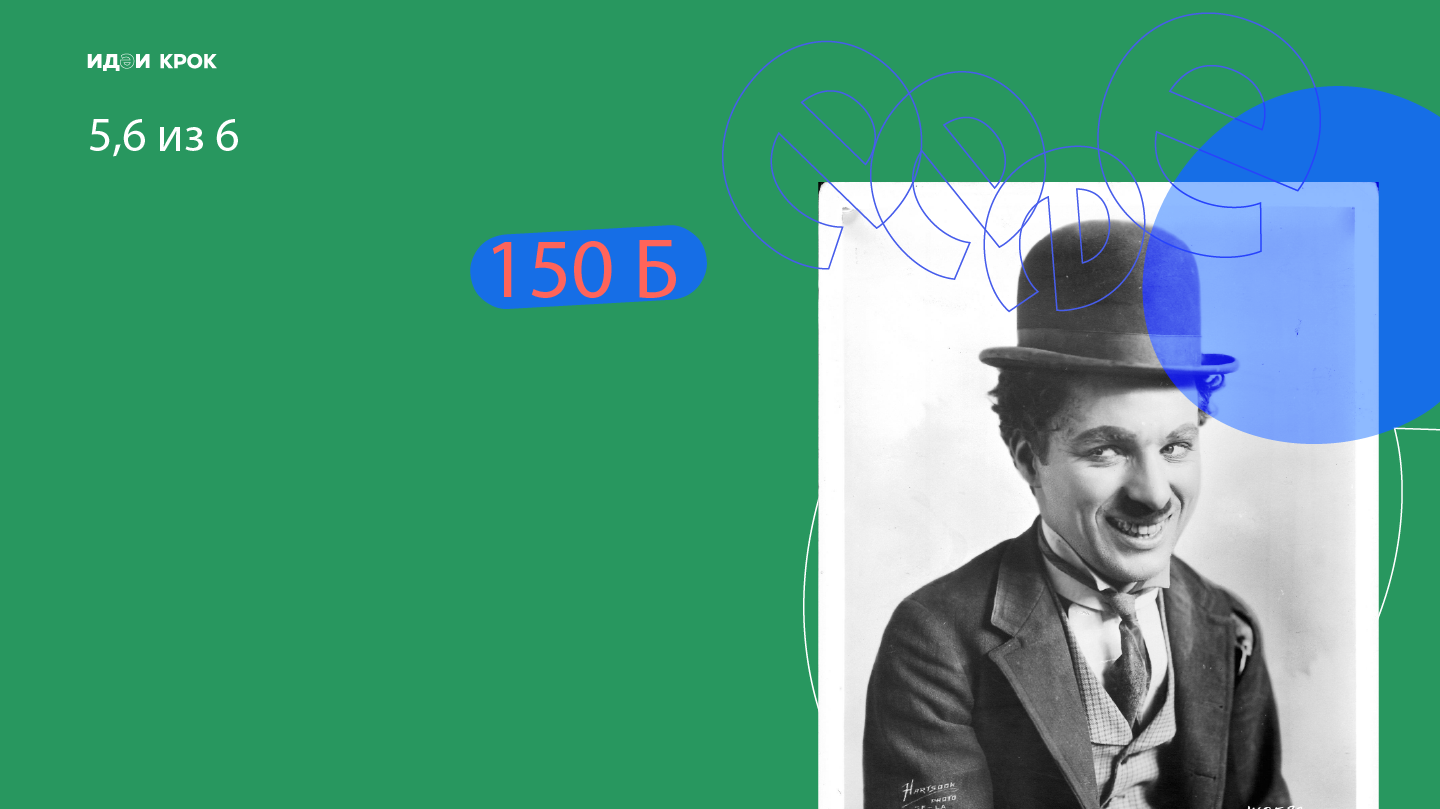
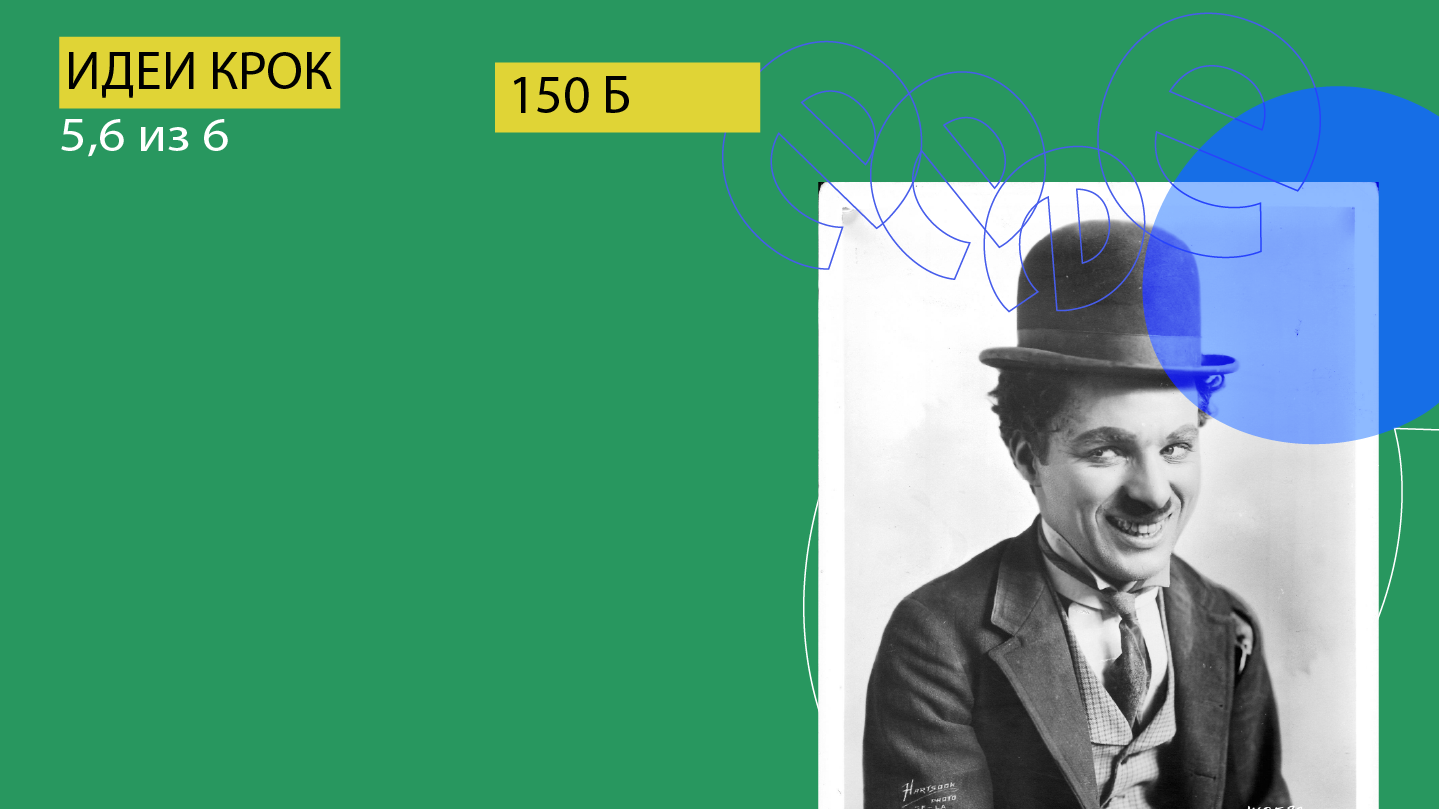
commit

diff --git a/html/index.html b/html/index.html
@@ -32,40 +32,40 @@
         <img class="V" src="../img/first-page/Image_008.png" alt="">
         <img class='fish' src="../img/first-page/Image_009.png" alt=""> -->
 
-      <object type="image/svg+xml" data="e.svg" class="e e1">
+      <object type="image/svg+xml" data="../public/img/e.svg" class="e e1">
 
       </object>
-      <object type="image/svg+xml" data="e.svg" class="e e2">
+      <object type="image/svg+xml" data="../public/img/e.svg" class="e e2">
 
       </object>
-      <object type="image/svg+xml" data="e.svg" class="e e3">
+      <object type="image/svg+xml" data="../public/img/e.svg" class="e e3">
 
       </object>
-      <object type="image/svg+xml" data="e.svg" class="e e4">
+      <object type="image/svg+xml" data="../public/img/e.svg" class="e e4">
 
       </object>
-      <object type="image/svg+xml" data="e.svg" class="e e5">
+      <object type="image/svg+xml" data="../public/img/e.svg" class="e e5">
 
       </object>
-      <object type="image/svg+xml" data="e.svg" class="e e6">
+      <object type="image/svg+xml" data="../public/img/e.svg" class="e e6">
 
       </object>
-      <object type="image/svg+xml" data="e.svg" class="e e7">
+      <object type="image/svg+xml" data="../public/img/e.svg" class="e e7">
 
       </object>
-      <object type="image/svg+xml" data="e.svg" class="e e8">
+      <object type="image/svg+xml" data="../public/img/e.svg" class="e e8">
 
       </object>
-      <object type="image/svg+xml" data="e.svg" class="e e9">
+      <object type="image/svg+xml" data="../public/img/e.svg" class="e e9">
 
       </object>
-      <object type="image/svg+xml" data="e.svg" class="e e10">
+      <object type="image/svg+xml" data="../public/img/e.svg" class="e e10">
 
       </object>
-      <object type="image/svg+xml" data="e.svg" class="e e11">
+      <object type="image/svg+xml" data="../public/img/e.svg" class="e e11">
 
       </object>
-      <object type="image/svg+xml" data="e.svg" class="e e12">
+      <object type="image/svg+xml" data="../public/img/e.svg" class="e e12">
 
       </object>
 
@@ -86,7 +86,7 @@
             твои коллеги.
         </div>
         <div class="intro__btn">
-          <a href="#">Пройти опрос</a>
+          <a href="#">Пройти тест!</a>
         </div>
       </div>
     
@@ -318,23 +318,21 @@
 
   <section class="result1">
     <div class="result__inner">
-      <div class="result__title result__title-r">
-        Ну это топ!
+      <div class="result__title result__title-b">
+        Красавчик!
       </div>
-      <div class="result__text">
-        Ты точно на одной волне
-        с рационализаторами и инноваторами.
-        Продолжай оптимизировать процессы
-        и делать КРОК лучше! 
-      </div>
-      
-      <div class="result__text lower">
-        Переходи на платформу
-        <a class="idea_crock" href="#">«Идеи КРОК»</a> и следи за новостями.
-      </div>
-      <div class="result__footer">
-        Скоро стартует марафон идей, следи за новостями, а пока смотри какие еще идей
-        от коллег запущены в КРОК и подавай свои
+      <div class="text__inner">
+        <div class="result__text">
+          Не ну это топ
+        </div>
+        
+        <div class="result__text lower">
+          Ты точно на одной волне с рационализаторами и инноваторами. Продолжай оптимизировать процессы и делать КРОК лучше!
+        </div>
+        <div class="result__footer">
+          Переходи на платформу
+          <a class="idea_crock" href="#">«Идеи КРОК»</a> и следи за новостями.
+        </div>
       </div>
     </div>
   </section>
@@ -344,35 +342,36 @@
       <div class="result__title result__title-o">
         Not Bad.
       </div>
-      <div class="result__text">
-        Ты думал, как настоящий генератор идей. 
-        Осталось поработать над прикладными
-        решениями. 
-      </div>
-      <div class="result__text lower">
-        Переходи на платформу
-        <a class="idea_crock" href="#">«Идеи КРОК»</a> и следи за новостями.
-      </div>
-      <div class="result__footer">
-        Скоро стартует марафон идей, следи за новостями, а пока смотри какие еще идей
-        от коллег запущены в КРОК и подавай свои
+      <div class="text__inner">
+        <div class="result__text">
+          Неплохо-неплохо.
+        </div>
+        <div class="result__text lower">
+          Ты думал, как настоящий генератор идей. Осталось поработать над прикладными решениями.
+        </div>
+        <div class="result__footer">
+          Переходи на платформу
+          <a class="idea_crock" href="#">«Идеи КРОК»</a> и следи за новостями.
+        </div>
       </div>
     </div>
   </section>
 
   <section class="result3">
     <div class="result__inner">
-      <div class="result__title result__title-w">
-        Ты очень креативный!
+      <div class="result__title result__title-r">
+        Ты<br> очень<br> креативный!
       </div>
-      <div class="result__text">
-        … и точно с хорошим чувством юмора. 
-          Но над проработкой идей еще нужно
-          подумать :) 
-      </div>
-      <div class="result__text lower">
-        Переходи на платформу
-        <a class="idea_crock" href="#">«Идеи КРОК»</a> и следи за новостями.
+      <div class="text__inner">
+        <div class="result__text">
+          … и точно с хорошим чувством юмора. 
+            Но над проработкой идей еще нужно
+            подумать :) 
+        </div>
+        <div class="result__text lower">
+          Переходи на платформу
+          <a class="idea_crock" href="#">«Идеи КРОК»</a> и следи за новостями.
+        </div>
       </div>
     </div>
   </section>

diff --git a/public/css/main.css b/public/css/main.css
@@ -141,7 +141,7 @@ textarea {
   width: 3%;
   position: absolute;
   left: 42%;
-  top: 34%;
+  top: 42%;
   animation: bubblesMain 8s infinite linear;
 }
 
@@ -216,11 +216,11 @@ textarea {
   }
 
   80% {
-      transform: translate(-10px, -280px) scale(1.25) rotate(360deg); 
+      transform: translate(-10px, -330px) scale(1.25) rotate(360deg); 
   }
 
   100%{
-      transform:  translate(-320px, -440px) scale(3);
+      transform:  translate(-320px, -480px) scale(3);
   }
 }
 
@@ -236,7 +236,7 @@ textarea {
   }
 
   40% {
-      transform: translate(-160px, -180px) scale(2) rotate(120deg);
+      transform: translate(-160px, -270px) scale(2) rotate(120deg);
   }
 
   100%{
@@ -260,7 +260,7 @@ textarea {
   }
 
   80% {
-      transform: translate(80px, -180px) scale(2) rotate(180deg); 
+      transform: translate(80px, -270px) scale(2) rotate(180deg); 
   }
 
   100%{
@@ -285,21 +285,21 @@ textarea {
 
 .intro__btn{
   padding: 10px 0;
-  background-color: #622BDC;
+  background-color: #E0D436;
   text-align: center;
   cursor: pointer;
   transition: all .2s linear;
 }
 
-.intro__btn:hover{
-  background-color: rgb(20, 51, 119);
+.intro__btn a{
+  color: #000;
+  text-decoration: none;
+  font-weight: 700;
 }
 
-.intro__btn a{
-  color: #fff;
-  text-decoration: none;
-  text-transform: uppercase;
-  font-weight: 700;
+
+.intro__btn:hover{
+  background-color: #ada531;
 }
 
 .q1, .q2, .q3, .q4, .q5, .q6{
@@ -492,9 +492,9 @@ textarea {
 
 .result__inner{
   width: 40%;
-  color: #fff;
+  color: #000;
   margin-left: 80px;
-  margin-top: 90px;
+  margin-top: 110px;
 }
 
 .result__title{
@@ -503,16 +503,21 @@ textarea {
   margin-bottom: 70px;
 }
 
-.result__title-r{
-  color: #FF645A;
+.result__title-b{
+  color: #475DEB;
 }
 
 .result__title-o{
   color: #FFA436;
 }
 
-.result__title-w{
-  color: #fff
+.result__title-r{
+  color: #DF645B
+}
+
+.text__inner{
+  background-color: #E0D436;
+  padding: 10px 20px;
 }
 
 .result__text{
@@ -520,12 +525,16 @@ textarea {
 }
 
 .result__text.lower{
+  font-size: 22px;
   margin: 40px 0;
 }
 
+.result__footer{
+  font-size: 22px;
+}
+
 .idea_crock{
-  color: #475DEB;
-  text-decoration: none;
+  color: inherit;
   transition: all .2s linear;
 }
 
